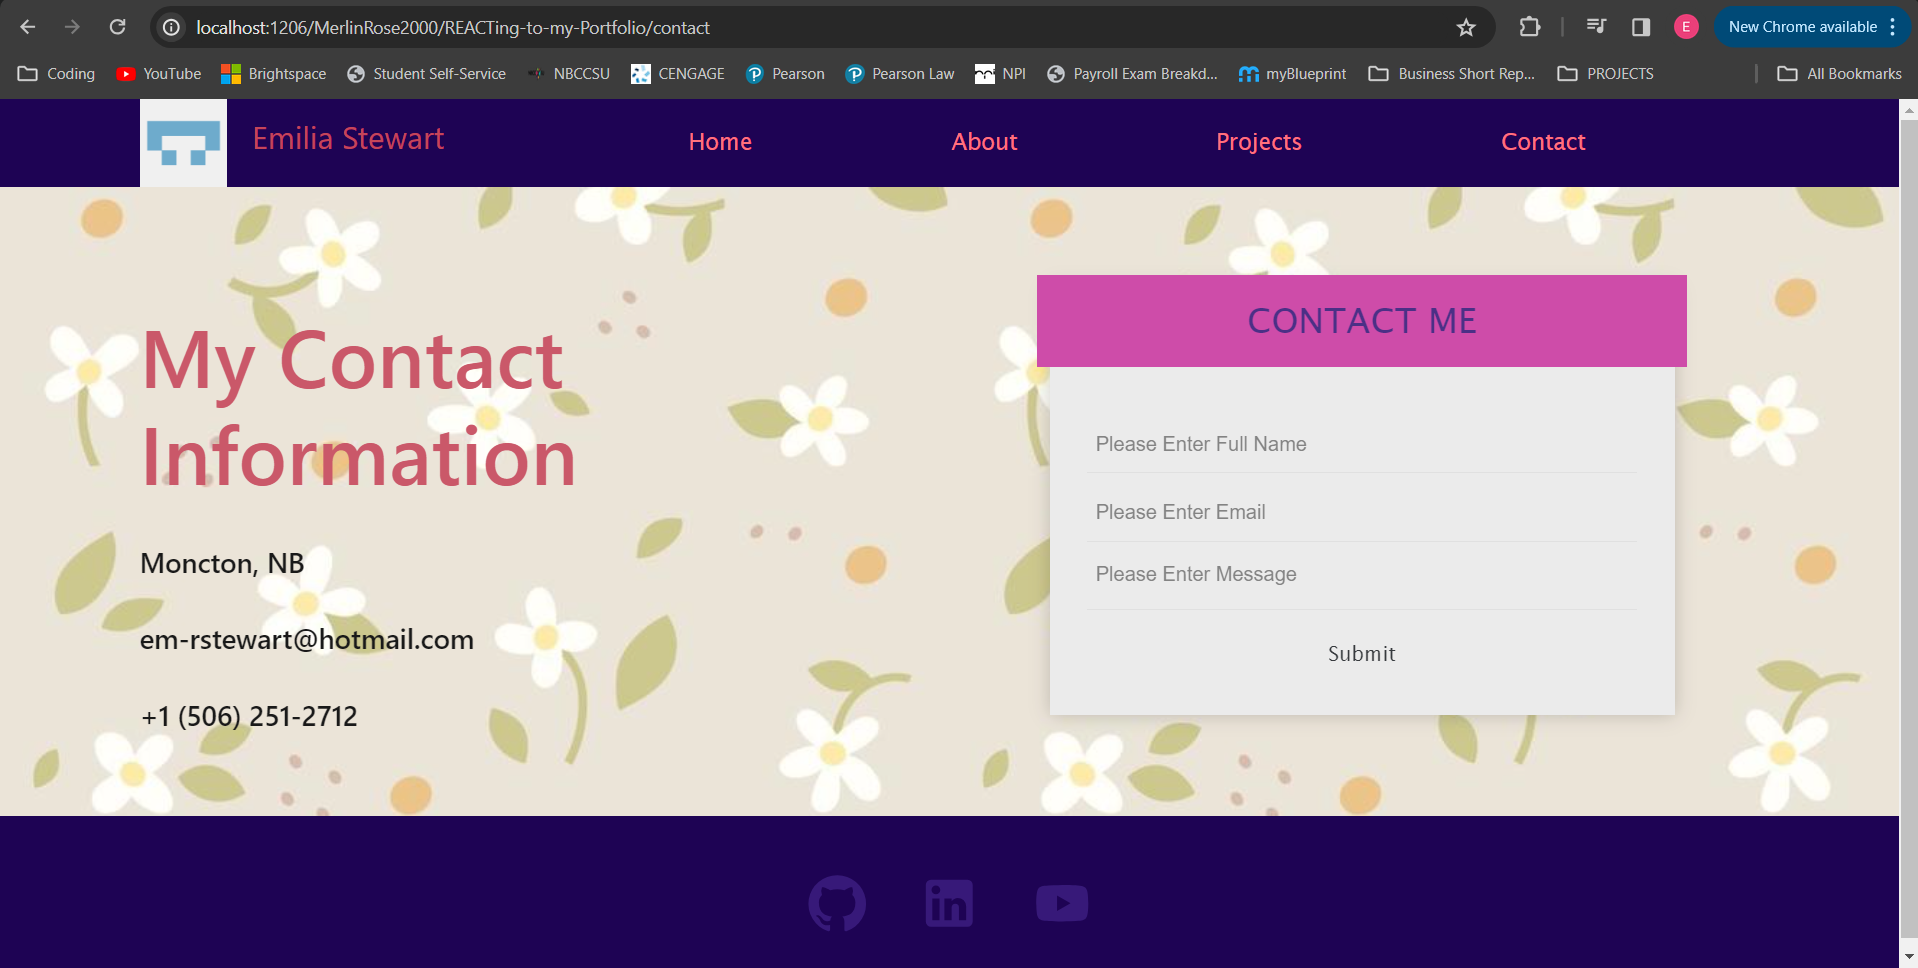
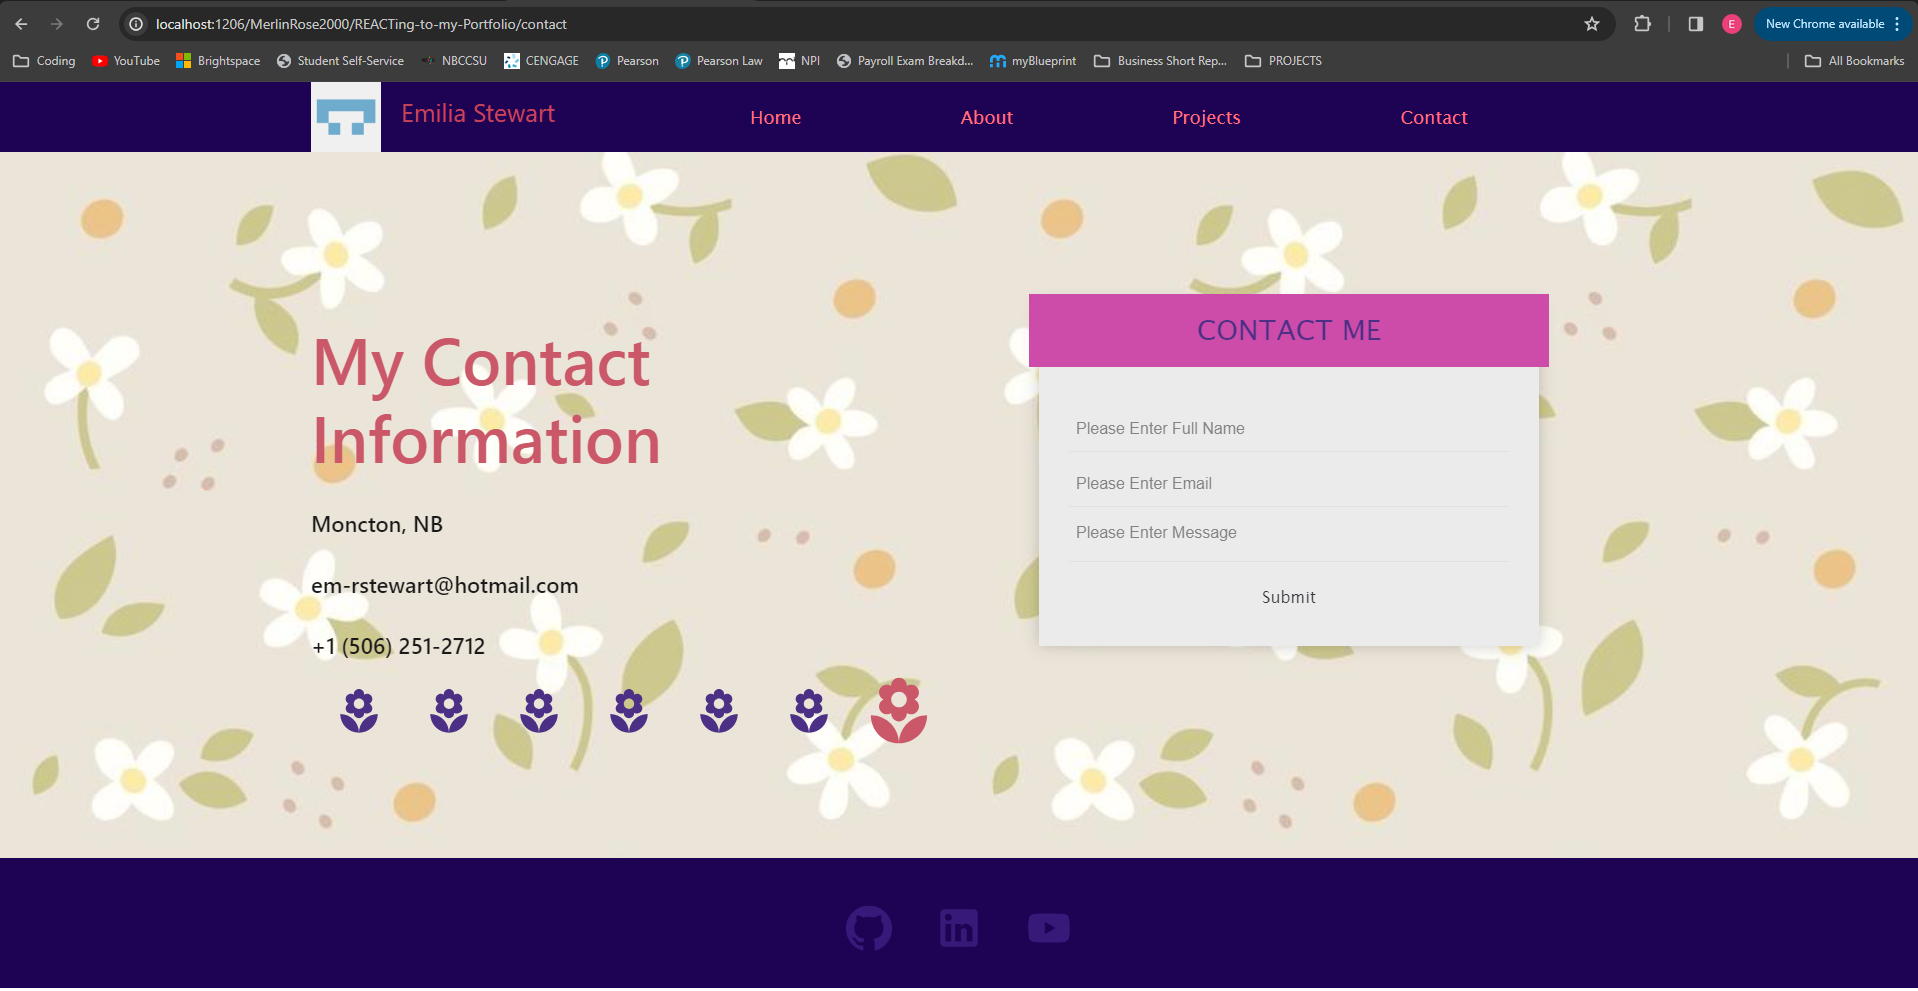
made some adjustments

diff --git a/src/pages/Contact.js b/src/pages/Contact.js
@@ -3,7 +3,8 @@ import Form from 'react-bootstrap/Form';
 import { Container } from 'react-bootstrap';
 import {Row} from 'react-bootstrap';
 import {Col} from 'react-bootstrap';
-import "../styles/contact.css"
+import Flower from '@mui/icons-material/LocalFlorist.js';
+import "../styles/contact.css";
 
 
 const Contact = () => {
@@ -33,6 +34,15 @@ const Contact = () => {
               <h2 className="contact-info"> Moncton, NB </h2>
               <h2 className="contact-info" href="mailto://em-rstewart@hotmail.com"> em-rstewart@hotmail.com </h2>
               <h2 className="contact-info" href="callto://+1.506.251.2712"> +1 (506) 251-2712 </h2>
+                <div className='socialMedia'>
+                <Flower />
+                <Flower />
+                <Flower />
+                <Flower />
+                <Flower /> 
+                <Flower />
+                <Flower />
+              </div>
             </Col> 
 
             <Col md={6}> 

diff --git a/src/pages/Home.js b/src/pages/Home.js
@@ -23,6 +23,11 @@ const Home = () => {
 							<Flower />
 							<Flower />
 							<Flower />
+							<Flower /> <br />
+							<Flower />
+							<Flower />
+							<Flower />
+							<Flower />
 							<Flower />
 							<Flower /> <br />
 							<Flower />
@@ -35,7 +40,7 @@ const Home = () => {
 						</div>
 						<br />
 						<h1>Emilia Stewart</h1>
-
+						<br />
 						<div className="socialMedia"> 
 							<Flower />
 							<Flower />
@@ -45,6 +50,11 @@ const Home = () => {
 							<Flower />
 							<Flower /> <br />
 							<Flower />
+							<Flower />
+							<Flower />
+							<Flower />
+							<Flower />
+							<Flower /> <br />
 							<Flower />
 							<Flower />
 							<Flower />

diff --git a/src/styles/home.css b/src/styles/home.css
@@ -6,7 +6,7 @@
 }
 
 .profile{
-  width: 600px;
+  width: 711px;
   position: absolute;
   left: 0;
 }
